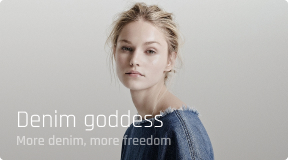
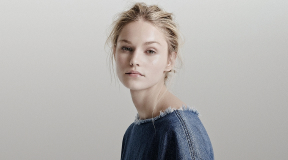
Add images for tablet and desktop versions

Changed region(s): [[0.0625, 0.6875, 0.5625, 0.8125], [0.0312, 0.8438, 0.5938, 0.9062]]

diff --git a/src/index.html b/src/index.html
@@ -7,151 +7,166 @@
   <link rel="stylesheet" href="css/style.min.css">
   <title>Gussi light coat: Online shop Gussi</title>
 </head>
-<body>
-  <header class="header">
-    <div class="container">
-      <a>
-        <img src="img/Logo.png" width="65" height="38" alt="Gussi logo">
-      </a>
-      <h2>Light coat</h2>
-      <p>More cotton, more freedom</p>
-    </div>
-  </header>
-  <main class="main">
-    <div class="container">
-      <section class="product">
-        <h1 class="product__title">Gussi light coat </h1>
-        <h2 class="product__subtitle main__subtitle">New collection</h2>
-        <p class="product__desc">It takes you from the party to the 
-          after party  with its fashion-forward 
-          styles. A playfull blendof retro and 
-          modern outdoor design.
-        </p>
-        <ul class="product__details">
-          <li class="color">
-            <h3 class="color__title main__subtitle">colour</h3>
-            <ul class="color__list">
-              <li class="color__item">
-                <a class="color__link" href="#"></a>
-              </li>
-              <li class="color__item">
-                <a class="color__link" href="#"></a>
-              </li>
-              <li class="color__item">
-                <a class="color__link" href="#"></a>
-              </li>
-            </ul>
-          </li>
-          <li class="size">
-            <h3 class="main__subtitle">size</h3>
-            <div class="size__wrapper">
-              <ul class="size__list">
-                <li class="size__item">
-                  <button class="size__button">xs</button>
+<body class="page">
+  <div class="page__wrapper">
+    <header class="header">
+      <div class="container">
+        <a class="header__logo" href="#">
+          <img src="img/logo.svg" width="65" height="38" alt="Gussi logo">
+        </a>
+        <div class="header__text">
+          <h2 class="header__title">Light coat</h2>
+          <p class="header__slogan">More cotton, more freedom</p>
+        </div>
+      </div>
+    </header>
+    <main class="main">
+      <div class="container">
+        <section class="product">
+          <h1 class="product__title">Gussi light coat </h1>
+          <h2 class="product__subtitle main__subtitle">New collection</h2>
+          <p class="product__desc">It takes you from the party to the 
+            after party  with its fashion-forward 
+            styles. A playfull blend of retro and 
+            modern outdoor design.
+          </p>
+          <ul class="product__details">
+            <li class="color">
+              <h3 class="color__title main__subtitle">colour</h3>
+              <ul class="color__list">
+                <li class="color__item color__item--active">
+                  <a class="color__link color__link--black" href="#"></a>
                 </li>
-                <li class="size__item">
-                  <button class="size__button size__button--active">s</button>
+                <li class="color__item">
+                  <a class="color__link color__link--gray" href="#"></a>
                 </li>
-                <li class="size__item">
-                  <button class="size__button">m</button>
-                </li>
-                <li class="size__item">
-                  <button class="size__button">l</button>
-                </li>
-                <li class="size__item">
-                  <button class="size__button" disabled>xl</button>
+                <li class="color__item">
+                  <a class="color__link color__link--darkblue" href="#"></a>
                 </li>
               </ul>
-              <a class="size__link" href="#">Size guide</a>
-            </div>
-          </li>
-          <li class="quantity">
-            <h3 class="main__subtitle">quantity</h3>
-          </li>
-          <li class="price">
-            <h3 class="price__title main__subtitle">cost</h3>
-            <p class="price__value">$120<span>.00</span></p>
-          </li>
-        </ul>
-        <div class="details">
-          <h3 class="details__title main__subtitle">PRODUCT DETAILS</h3>
-          <p class="details__text">Look out for its standout party dresses, feminine details, 
-            statement jackets and cool denim including skinny-cut jeans 
-            and cute denim shorts, which sit alongside its directional 
-            footwear and swimwear ranges.
-
-          </p>
-          <p class="details__structure">63% Viscose, 37% Polyamide.</p>
-        </div>
-        <button class="button" type="button">Order now</button>
-      </section>
-      <section class="services">
-        <ul class="services__list">
-          <li class="services__item">
-            <h2 class="services__title">Delivery</h2>
-          </li>
-          <li class="services__item">
-            <h2 class="services__title">Return</h2>
-          </li>
-        </ul>
-      </section>
-      <section class="similar">
-        <h2 class="main__subtitle">Similar Collections</h2>
-        <ul class="similar__list">
-          <li class="similar__item">
-            <a href="#">
-              <img src="img/kingsman.jpg" width="288" height="160" alt="Kingsman style">
-            </a>
-            <div class="similar__content">
-              <h3 class="similar__title">Kingsman style</h3>
-              <p class="similar__desc">More silk, more freedom</p>
-            </div>
-          </li>
-          <li class="similar__item">
-            <a href="#">
-              <img src="img/denim.jpg" width="288" height="160" alt="Denim goddess">
-            </a>
-            <div class="similar__content">
-              <h3 class="similar__title">Denim goddess</h3>
-              <p class="similar__desc">More denim, more freedom</p>
-            </div>
-          </li>
-        </ul>
-      </section>
-      <section class="subscribtion">
-        <h2 class="subscribtion__title">Subscribe our newsletter</h2>
-        <p class="subscribtion__desc">Get notified about new collections of Gussi Store</p>
-        <form class="subscribtion__form">
-          <ul>
-            <li class="subscribtion__item">
-              <input type="text" id="user-name" placeholder="Enter your name" required>
-              <label class="visually-hidden" for="user-name">Name</label>
             </li>
-            <li class="subscribtion__item">
-              <input type="email" id="user-email" placeholder="Enter your e-mail" required>
-              <label class="visually-hidden" for="user-email">Email</label>
-            </li>
-            <li class="subscribtion__item subscribtion__item--gender">
-              <p class="subscribtion__label">Choose your gender:</p>
-              <div class="subscribtion__gender">
-                <input class="visually-hidden" type="radio" name="gender" id="gender-male" checked>
-                <label for="gender-male">Male</label>
-                <input class="visually-hidden" type="radio" name="gender" id="gender-female">
-                <label for="gender-female">Female</label>
+            <li class="size">
+              <h3 class="main__subtitle">size</h3>
+              <div class="size__wrapper">
+                <ul class="size__list">
+                  <li class="size__item">
+                    <button class="size__button">xs</button>
+                  </li>
+                  <li class="size__item">
+                    <button class="size__button size__button--active">s</button>
+                  </li>
+                  <li class="size__item">
+                    <button class="size__button">m</button>
+                  </li>
+                  <li class="size__item">
+                    <button class="size__button">l</button>
+                  </li>
+                  <li class="size__item">
+                    <button class="size__button" disabled>xl</button>
+                  </li>
+                </ul>
+                <a class="size__link" href="#">Size guide</a>
               </div>
             </li>
-            <li class="subscribtion__item subscribtion__item--check">
-              <input class="visually-hidden" type="checkbox" name="subscribe-check" id="subscribe-check" checked>
-              <label for="subscribe-check">
-                Look out for its standout party dresses, feminine details
-              </label>
+            <li class="quantity">
+              <h3 class="main__subtitle">quantity</h3>
+            </li>
+            <li class="price">
+              <h3 class="price__title main__subtitle">cost</h3>
+              <p class="price__value">$120<span>.00</span></p>
             </li>
           </ul>
-          <button class="button" type="submit">Subscribe Gussi</button>
-        </form>
-      </section>
-    </div>
-  </main>
+          <div class="details">
+            <h3 class="details__title main__subtitle">PRODUCT DETAILS</h3>
+            <p class="details__text">Look out for its standout party dresses, feminine details, 
+              statement jackets and cool denim including skinny-cut jeans 
+              and cute denim shorts, which sit alongside its directional 
+              footwear and swimwear ranges.
+            </p>
+            <p class="details__structure">63% Viscose, 37% Polyamide.</p>
+          </div>
+          <button class="button" type="button">Order now</button>
+        </section>
+        <section class="services">
+          <ul class="services__list">
+            <li class="services__item">
+              <h2 class="services__title">Delivery</h2>
+            </li>
+            <li class="services__item">
+              <h2 class="services__title">Return</h2>
+            </li>
+          </ul>
+        </section>
+        <section class="similar">
+          <h2 class="main__subtitle">Similar Collections</h2>
+          <ul class="similar__list">
+            <li class="similar__item">
+              <a href="#">
+                <picture>
+                  <source media="(min-width: 1360px)" srcset="img/kingsman_desktop.jpg">
+                  <source media="(min-width: 720px)" srcset="img/kingsman_tablet.jpg">
+                  <img src="img/kingsman.jpg" width="288" height="160" alt="Kingsman style">
+                </picture>
+              </a>
+              <div class="similar__content">
+                <h3 class="similar__title">Kingsman style</h3>
+                <p class="similar__desc">More silk, more freedom</p>
+              </div>
+            </li>
+            <li class="similar__item">
+              <a href="#">
+                <picture>
+                  <source media="(min-width: 1360px)" srcset="img/denim_desktop.jpg">
+                  <source media="(min-width: 720px)" srcset="img/denim_tablet.jpg">
+                  <img src="img/denim.jpg" width="288" height="160" alt="Denim goddess">
+                </picture>
+              </a>
+              <div class="similar__content">
+                <h3 class="similar__title">Denim goddess</h3>
+                <p class="similar__desc">More denim, more freedom</p>
+              </div>
+            </li>
+          </ul>
+        </section>
+        <section class="subscribtion">
+          <h2 class="subscribtion__title">Subscribe our newsletter</h2>
+          <p class="subscribtion__desc">Get notified about new collections of Gussi Store</p>
+          <form class="subscribtion__form">
+            <ul class="subscribtion__list">
+              <li class="subscribtion__item">
+                <input type="text" id="user-name" placeholder="Enter your name" required>
+                <label class="visually-hidden" for="user-name">Name</label>
+              </li>
+              <li class="subscribtion__item">
+                <input type="email" id="user-email" placeholder="Enter your e-mail" required>
+                <label class="visually-hidden" for="user-email">Email</label>
+              </li>
+              <li class="subscribtion__item subscribtion__item--gender">
+                <p class="subscribtion__info">Choose your gender:</p>
+                <ul class="subscribtion__list subscribtion__list--gender">
+                  <li class="subscribtion__gender-item">
+                    <input class="visually-hidden" type="radio" name="gender" id="gender-male" checked>
+                    <label class="subscribtion__label" for="gender-male">Male</label>
+                  </li>
+                  <li class="subscribtion__gender-item">
+                    <input class="visually-hidden" type="radio" name="gender" id="gender-female">
+                    <label for="gender-female">Female</label>
+                  </li>
+                </ul>
+              </li>
+              <li class="subscribtion__item subscribtion__item--checkbox">
+                <input class="visually-hidden" type="checkbox" name="subscribe-check" id="subscribe-check" checked>
+                <label for="subscribe-check">
+                  Look out for its standout party dresses, feminine details
+                </label>
+              </li>
+            </ul>
+            <button class="button" type="submit">Subscribe Gussi</button>
+          </form>
+        </section>
+      </div>
+    </main>
+  </div>
   <script src="js/scripts.min.js"></script>
 </body>
 </html>
